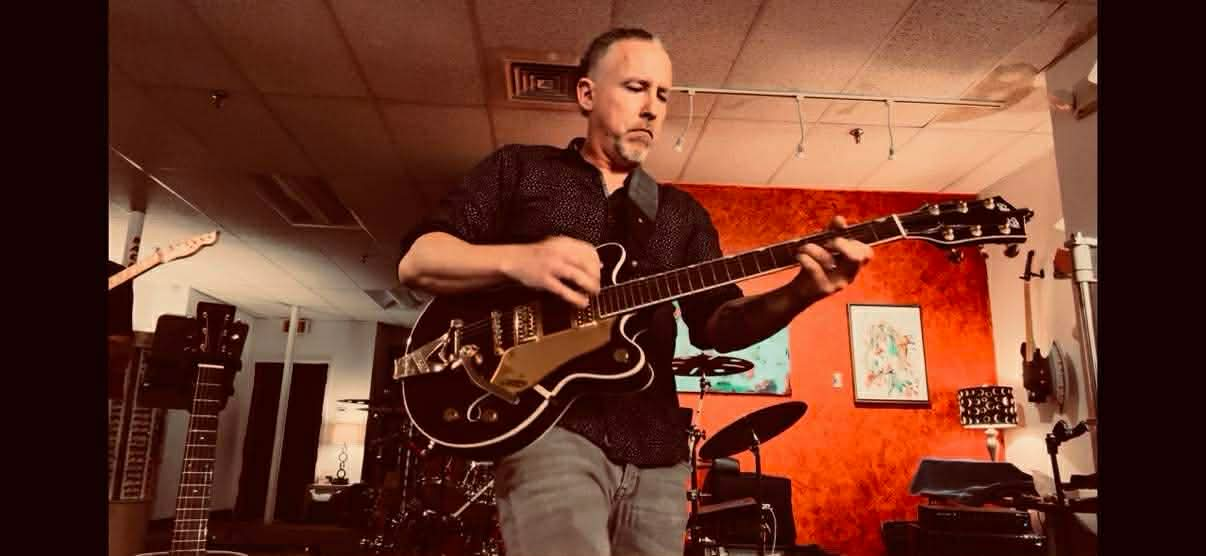
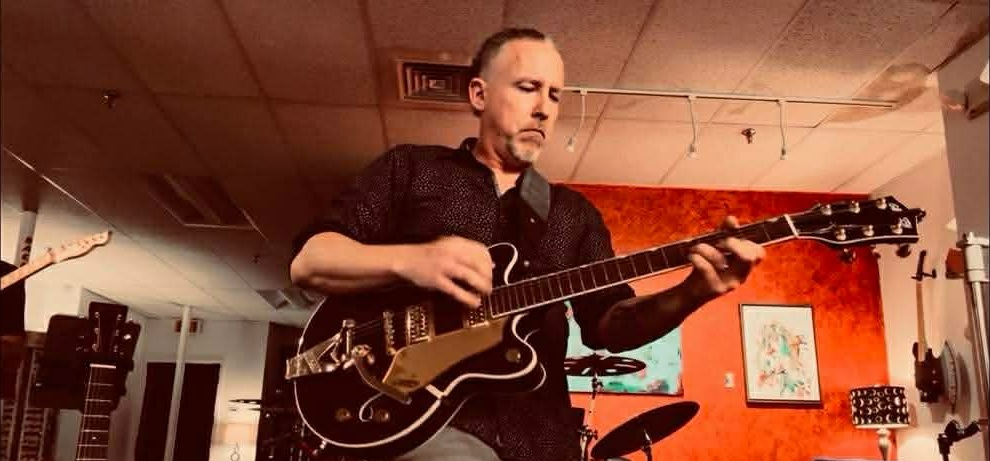
checkpoint

diff --git a/css/site.css b/css/site.css
@@ -46,9 +46,6 @@ body {
   background-repeat: repeat, repeat-y;
   background-attachment: fixed;
   background-position: center;
-  /* Breathing room + notches; avoids horizontal overflow on small viewports */
-  padding-left: max(0.75rem, env(safe-area-inset-left, 0px));
-  padding-right: max(0.75rem, env(safe-area-inset-right, 0px));
   overflow-x: hidden;
 }
 
@@ -92,6 +89,8 @@ video {
   max-width: 1200px;
   margin-left: auto;
   margin-right: auto;
+  padding-left: max(0.75rem, env(safe-area-inset-left, 0px));
+  padding-right: max(0.75rem, env(safe-area-inset-right, 0px));
 }
 
 .site-wrap--header {
@@ -143,10 +142,15 @@ video {
   line-height: 0;
   background: #0a0a0a;
   overflow: hidden;
-  width: 100%;
-  aspect-ratio: 2400 / 900;
-  max-height: min(50vh, 720px);
-  min-height: 200px;
+  position: relative;
+  /* True full-bleed banner regardless of surrounding container padding. */
+  width: 100vw;
+  max-width: 100vw;
+  margin-left: calc(50% - 50vw);
+  margin-right: calc(50% - 50vw);
+  aspect-ratio: auto;
+  max-height: none;
+  min-height: 0;
 }
 
 .page-hero picture {
@@ -156,15 +160,40 @@ video {
 
 .page-hero__img {
   width: 100%;
-  /* Taller than the crop so parallax translate has room without exposing gaps */
-  height: 128%;
-  min-height: 200px;
-  max-width: none;
-  object-fit: cover;
-  object-position: center center;
+  height: auto;
+  min-height: 0;
+  max-width: 100%;
   display: block;
   will-change: transform;
   transform: translate3d(0, var(--hero-parallax-y, 0px), 0);
+}
+
+.page-hero__copy-wrap {
+  position: absolute;
+  left: 0;
+  right: 0;
+  bottom: 0;
+  z-index: 1;
+  padding: clamp(0.75rem, 2.4vw, 1.4rem);
+  line-height: 1.55;
+  background:
+    linear-gradient(to top, rgba(0, 0, 0, 0.85) 0%, rgba(0, 0, 0, 0.62) 55%, rgba(0, 0, 0, 0) 100%);
+}
+
+.page-hero__copy {
+  max-width: 1120px;
+  margin: 0 auto;
+  color: #fff;
+  font-size: clamp(0.84rem, 1.55vw, 1.02rem);
+  font-weight: 400;
+  letter-spacing: 0.01em;
+  text-shadow: 0 2px 6px rgba(0, 0, 0, 0.75);
+  /* Slight blur/contrast panel keeps text legible on colorful regions. */
+  background: rgba(0, 0, 0, 0.36);
+  border: 1px solid rgba(255, 255, 255, 0.18);
+  border-radius: 0.35rem;
+  padding: clamp(0.65rem, 1.8vw, 1rem);
+  backdrop-filter: blur(2px) saturate(0.9);
 }
 
 @media (prefers-reduced-motion: reduce) {
@@ -241,6 +270,10 @@ video {
 @media (max-width: 700px) {
   .nav-toggle {
     display: block;
+    top: 0.4rem;
+    right: max(0.25rem, env(safe-area-inset-right, 0px));
+    transform: none;
+    z-index: 3;
   }
 
   .nav-bar .site-wrap {
@@ -1315,11 +1348,26 @@ img.musical-divider__img {
   }
 
   .page-hero {
-    min-height: 155px;
+    aspect-ratio: auto;
+    min-height: 0;
+    max-height: none;
+  }
+
+  .page-hero__copy-wrap {
+    padding: 0.5rem;
+  }
+
+  .page-hero__copy {
+    font-size: clamp(0.76rem, 3.05vw, 0.9rem);
+    line-height: 1.45;
+    padding: 0.55rem 0.6rem;
   }
 
   .page-hero__img {
-    min-height: 155px;
+    height: auto;
+    min-height: 0;
+    transform: none !important;
+    will-change: auto;
   }
 
   .social-bar {
@@ -1362,6 +1410,9 @@ img.musical-divider__img {
 @media (max-width: 480px) {
   body {
     font-size: 1rem;
+  }
+
+  .site-wrap {
     padding-left: max(0.6rem, env(safe-area-inset-left, 0px));
     padding-right: max(0.6rem, env(safe-area-inset-right, 0px));
   }
@@ -1419,5 +1470,17 @@ img.musical-divider__img {
 
   .site-footer__notes {
     display: none;
+  }
+}
+
+/* Background image repeats can look harsh on phones; use one anchored layer plus a soft fade. */
+@media (max-width: 700px) {
+  body {
+    background-image:
+      linear-gradient(180deg, rgba(0, 0, 0, 0.18) 0%, rgba(0, 0, 0, 0.42) 100%),
+      url("../assets/page-bg.png");
+    background-size: auto, cover;
+    background-repeat: repeat, no-repeat;
+    background-position: center, center top;
   }
 }

diff --git a/index.html b/index.html
@@ -46,6 +46,17 @@
           alt="Decorative header artwork: sunset palette and stage silhouettes (replace with your art)"
           fetchpriority="high" />
       </picture>
+      <div class="page-hero__copy-wrap">
+        <p class="page-hero__copy">Jason Pratt is an accomplished acoustic guitarist, vocalist, and songwriter whose
+          music blends heartfelt authenticity with decades of stage experience. A proud Berklee College of Music
+          alumnus, Jason has spent over 30 years performing across a wide variety of venues, connecting with audiences
+          through both his soulful originals and a rich selection of “deep cut” covers — the timeless songs people know
+          and love, but rarely hear live. With a warm, expressive voice and dynamic guitar style, Jason brings new life
+          to every performance, creating an intimate and memorable musical experience. His original compositions
+          showcase his artistry and storytelling, while his taste in covers reveals a deep appreciation for the craft
+          and legacy of great songwriting. Whether playing a cozy acoustic set or commanding a festival stage, Jason
+          Pratt delivers music that resonates — familiar yet fresh, rooted yet inspired.</p>
+      </div>
     </div>
 
     <div class="nav-bar">
@@ -75,7 +86,7 @@
           Events. ♫</h2>
       </div>
       <br>
-      <blockquote class="quote-block" id="live-block">
+      <!-- <blockquote class="quote-block" id="live-block">
         <p>Jason Pratt is an accomplished acoustic guitarist, vocalist, and songwriter whose music blends heartfelt
           authenticity with decades of stage experience. A proud Berklee College of Music alumnus, Jason has spent over
           30 years performing across a wide variety of venues, connecting with audiences through both his soulful
@@ -90,7 +101,7 @@
           Whether playing a cozy acoustic set or commanding a festival stage, Jason Pratt delivers music that resonates
           — familiar yet fresh, rooted yet inspired.</p>
 
-      </blockquote>
+      </blockquote> -->
 
       <section class="cover-art" id="cover-art" aria-labelledby="cover-art-heading">
         <h2 class="headline-caps headline-caps--collapsible" id="cover-art-heading">
